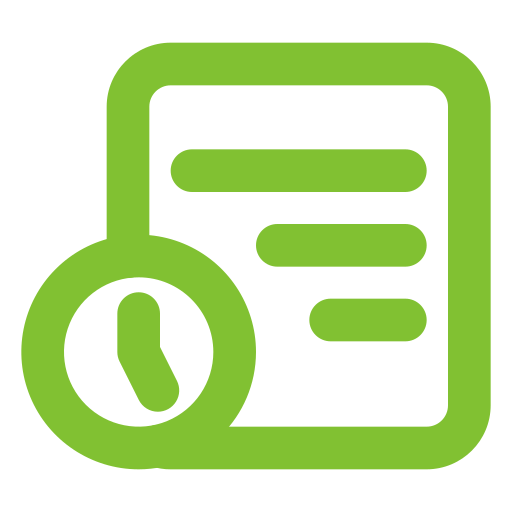
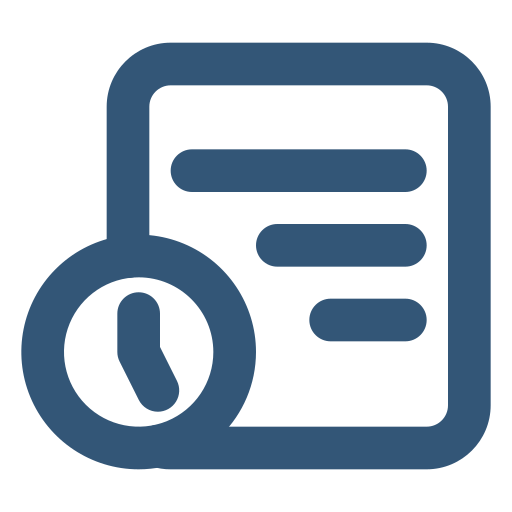
cambios para emprendimiento

diff --git a/src/app/components/historial/historial.component.css b/src/app/components/historial/historial.component.css
@@ -43,7 +43,7 @@ body {
 
 .btn-detalles {
   padding: 5px 10px;
-  background-color: #8bbe2e;
+  background-color: #335677;
   color: white;
   border: none;
   border-radius: 5px;
@@ -52,7 +52,7 @@ body {
 }
 
 .btn-detalles:hover {
-  background-color: #5fa863;
+  background-color: #33567733;
 }
 
 .no-data {
@@ -73,7 +73,7 @@ body {
   border: none;
   border-radius: 10px;
   background-color: #f3f3f3;
-  color: #4caf50;
+  color: #335677;
   font-size: 14px;
   font-weight: bold;
   cursor: pointer;
@@ -81,7 +81,7 @@ body {
 }
 .filter-btn.active {
   background-color: #f0f0f0;
-  color: #8bbe2e;
+  color: #335677;
   width: 120px;
 }
 
@@ -125,7 +125,7 @@ body {
 }
 
 .button-compare{
-  background-color: #8bbe2e;
+  background-color: #335677;
   border-radius: 10px;
   color: white;
   padding: 10px;
@@ -136,7 +136,7 @@ body {
 }
 
 .button-compare:hover {
-  background-color: #5fa863;
+  background-color: #33567733;
 }
 
 .modal-button{
@@ -149,7 +149,7 @@ body {
   padding: 5px;
   font-size: 14px;
   font-weight: bold;
-  color: #8bbe2e;
+  color: #335677;
 }
 
 .campos{
@@ -188,7 +188,7 @@ body {
 
 
 .btn-see-more {
-  background-color: #8bbe2e;
+  background-color: #335677;
   color: white;
   border: none;
   padding: 8px 12px;
@@ -198,7 +198,7 @@ body {
 }
 
 .btn-see-more:hover {
-  background-color: #5fa863;
+  background-color: #33567733;
 
 }
 

diff --git a/src/app/components/pdf/pdf.component.css b/src/app/components/pdf/pdf.component.css
@@ -41,12 +41,12 @@ body {
 }
 
 .upload-area:hover {
-  border-color: #8bbe2e;
+  border-color: #335677;
 }
 
 .file-label {
   margin-top: 10px;
-  color: #8bbe2e;
+  color: #335677;
   cursor: pointer;
   font-weight: bold;
   text-decoration: underline;
@@ -73,7 +73,7 @@ body {
 }
 
 .btn-confirm {
-  background-color: #8bbe2e;
+  background-color: #335677;
   color: white;
   padding: 10px 20px;
   border: none;
@@ -84,7 +84,7 @@ body {
 }
 
 .btn-confirm:hover {
-  background-color: #76a825;
+  background-color: #335677;
 }
 
 .btn-confirm:disabled {
@@ -102,7 +102,7 @@ body {
   border: none;
   border-radius: 10px;
   background-color: #f3f3f3;
-  color: #4caf50;
+  color: #335677;
   font-size: 14px;
   font-weight: bold;
   cursor: pointer;
@@ -110,7 +110,7 @@ body {
 }
 .filter-btn.active {
   background-color: #f0f0f0;
-  color: #8bbe2e;
+  color: #335677;
   width: 120px;
 }
 
@@ -129,7 +129,7 @@ body {
 }
 
 .subir-pdf{
-  background-color: #8bbe2e;
+  background-color: #335677;
   border-radius: 10px;
   color: white;
   padding: 10px;

diff --git a/src/app/components/gemini/gemini.component.css b/src/app/components/gemini/gemini.component.css
@@ -38,7 +38,7 @@ body {
 
 .filter-btn.active {
   background-color: #f0f0f0;
-  color: #8bbe2e;
+  color: #335677;
   width: 120px;
 }
 
@@ -119,7 +119,7 @@ body {
 }
 
 .btn-see-more {
-  background-color: #8bbe2e;
+  background-color: #335677;
   color: white;
   border: none;
   padding: 8px 12px;
@@ -129,12 +129,12 @@ body {
 }
 
 .btn-see-more:hover {
-  background-color: #5fa863;
+  background-color: #f1f1ff;
 
 }
 
 .button-compare{
-  background-color: #8bbe2e;
+  background-color: #335677;
   border-radius: 10px;
   color: white;
   padding: 10px;
@@ -142,7 +142,7 @@ body {
 }
 
 .button-compare:hover {
-  background-color: #5fa863;
+  background-color: #f1f1ff;
 }
 
 .top-postulante {
@@ -187,7 +187,7 @@ body {
   padding: 5px;
   font-size: 14px;
   font-weight: bold;
-  color: #8bbe2e;
+  color: #335677;
 }
 
 .campo-normal{

diff --git a/src/app/components/gemini/gemini.component.ts b/src/app/components/gemini/gemini.component.ts
@@ -91,7 +91,7 @@ export class GeminiComponent implements OnInit {
   La evaluación se basará en los campos de cargoData, que incluyen:
     - Nivel académico comparalo con el area de conocimiento del cargo y calificalo sobre 20 puntos
     - Cursos compara si el contenido del mismo esta alineado con conocimiento técnico y calificalo sobre 25 puntos
-    - Experiencia comparalo con los cargos que ha tenido, el actual, ultimo y penultimo, en especial si entre los tiempos
+    - Experiencia comparalo con los cargos que ha tenido, el actucasuísticasal, ultimo y penultimo, en especial si entre los tiempos
       que ha estado laborando, cumple con los años que piden de experiencia y calificalo sobre 40 puntos
     - Habilidades/Destrezas/Competencias puedes compararlo con contribuciones laborales y calificarlo sobre 15 puntos
 

diff --git a/src/app/components/sidebar/sidebar.component.css b/src/app/components/sidebar/sidebar.component.css
@@ -5,11 +5,12 @@
   display: flex;
   flex-direction: column;
   justify-content: space-between;
-  box-shadow: 0 4px 10px rgba(0, 0, 0, 0.1);
+  box-shadow: 0 4px 15px 5px rgba(0, 0, 0, 0.1);
+
 }
 
 .logo{
-  height: 40px;
+  height: 100px;
   margin-bottom: 20px;
 }
 .menu {
@@ -37,7 +38,7 @@
   height: 30px;
 }
 .menu-item:hover {
-  background-color: #e5f3d7;
+  background-color: #33567733;
   color: #ffffff;
 }
 

diff --git a/src/app/components/perfil-ideal/perfil-ideal.component.css b/src/app/components/perfil-ideal/perfil-ideal.component.css
@@ -40,7 +40,7 @@ body {
 }
 
 .upload-area:hover {
-  border-color: #8bbe2e;
+  border-color: #335677;
 }
 
 .file-preview {
@@ -70,7 +70,7 @@ body {
 }
 
 .subir-pdf{
-  background-color: #8bbe2e;
+  background-color: #335677;
   border-radius: 10px;
   color: white;
   padding: 10px;
@@ -79,7 +79,7 @@ body {
 }
 
 .container h3{
-  color: #8bbe2e;
+  color: #335677;
   font-size: 20px;
   font-weight: bold;
 }

diff --git a/src/app/components/header/header.component.css b/src/app/components/header/header.component.css
@@ -1,7 +1,7 @@
 header{
   background: #ffffff;
   width: 100%;
-  border-bottom: 1px solid #8bbe2e;
+  border-bottom: 1px solid #335677;
 
 }
 
@@ -25,13 +25,13 @@ header .logo img{
 }
 
 .logo h5{
-  color: #8bbe2e;
+  color: #335677;
   font-size: 14px;
 }
 
 .contenedor h4{
   font-size: 20px;
-  color: #8bbe2e;
+  color: #335677;
   justify-content: left;
   padding: 10px;
 }

diff --git a/src/app/components/home/home.component.css b/src/app/components/home/home.component.css
@@ -19,7 +19,7 @@ body {
   align-items: center;
   margin: 10px;
   padding: 20px;
-  border: 2px solid #81c132;
+  border: 2px solid #335677;
   background-color: #ffffff;
   border-radius: 8px;
   cursor: pointer;
@@ -35,5 +35,5 @@ body {
 }
 
 .boton:hover {
-  background-color: #e8f5e9;
+  background-color: #33567733;
 }
